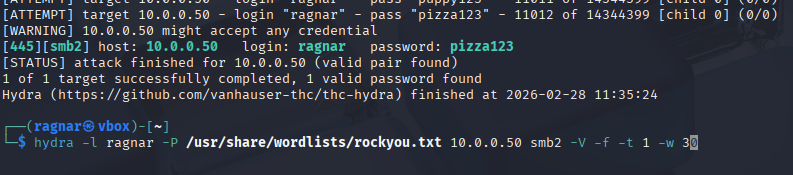
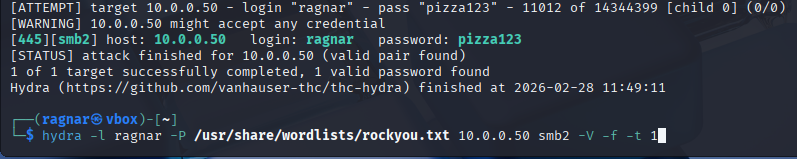
images added

Changed region(s): [[0.0, 0.0, 0.9987, 0.6038], [0.0, 0.6792, 0.8777, 0.9057], [0.0, 0.9811, 1.0, 1.0]]

diff --git a/README.md b/README.md
@@ -42,9 +42,18 @@ Seasoned Web Developer (5+ years) transitioning into Cybersecurity, leveraging a
 
 ![2023-07-02_16-27-14](https://github.com/gavinpaul-6/SOC-Lab/assets/98987388/2cc51854-b589-4963-8d7b-c0595bb1c33b)
 
-I used hydra with my Kali linux Virtual Machine.
+hydra on Kali linux Virtual Machine used to crack the login password of a known username.
 
 ![2023-07-02_23-29-20](https://github.com/1travelintexan/my-SOC-lab/blob/main/images/hydra.png?raw=true)
+
+<h2>Command explained:</h2>
+
+- '-l' is for the known username (ragnar)
+- '-P' is for the path to the rockyou password list given by Kali
+- 'smb2' is the new version of smb because the Windows 11 blocks the older version of smb
+- '-V' is for the real time log of each attempt at cracking the password
+- '-f' is for exiting as soon as a correct match is found
+- '-t 1' is to not run in parallel, this makes each attempt serial instead
 
 <h2>Part 3: Configuring SecurityOnion and SOC Analyst Machine</h2>
 
